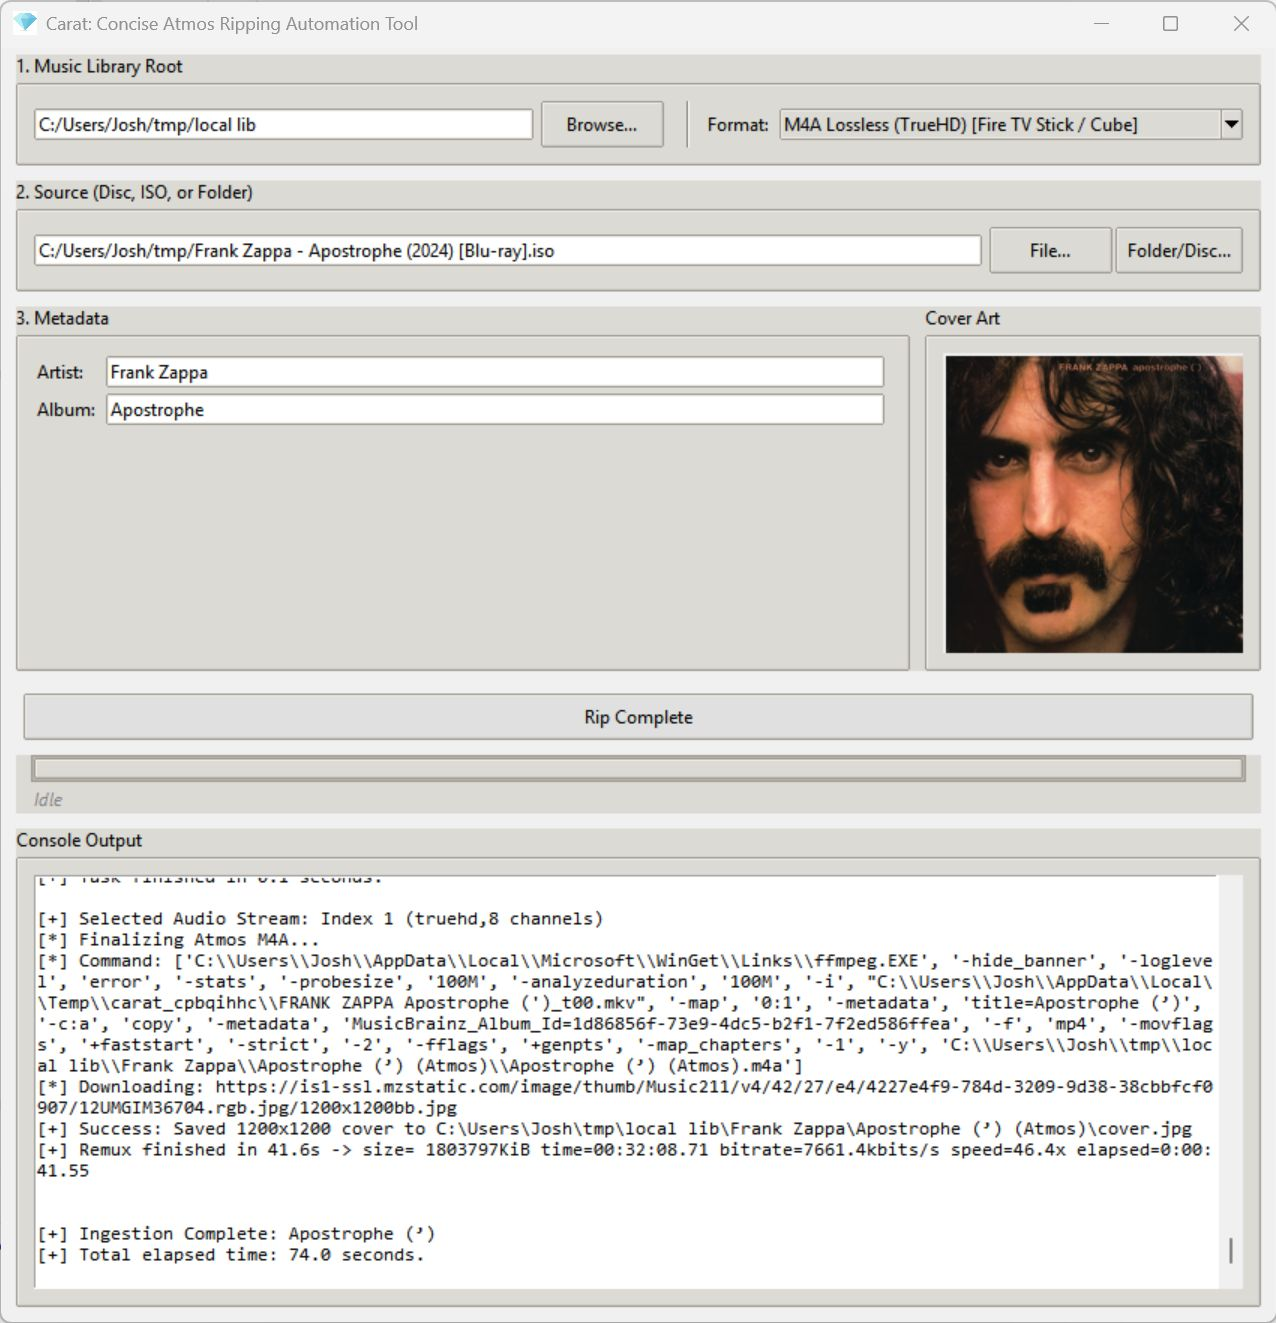
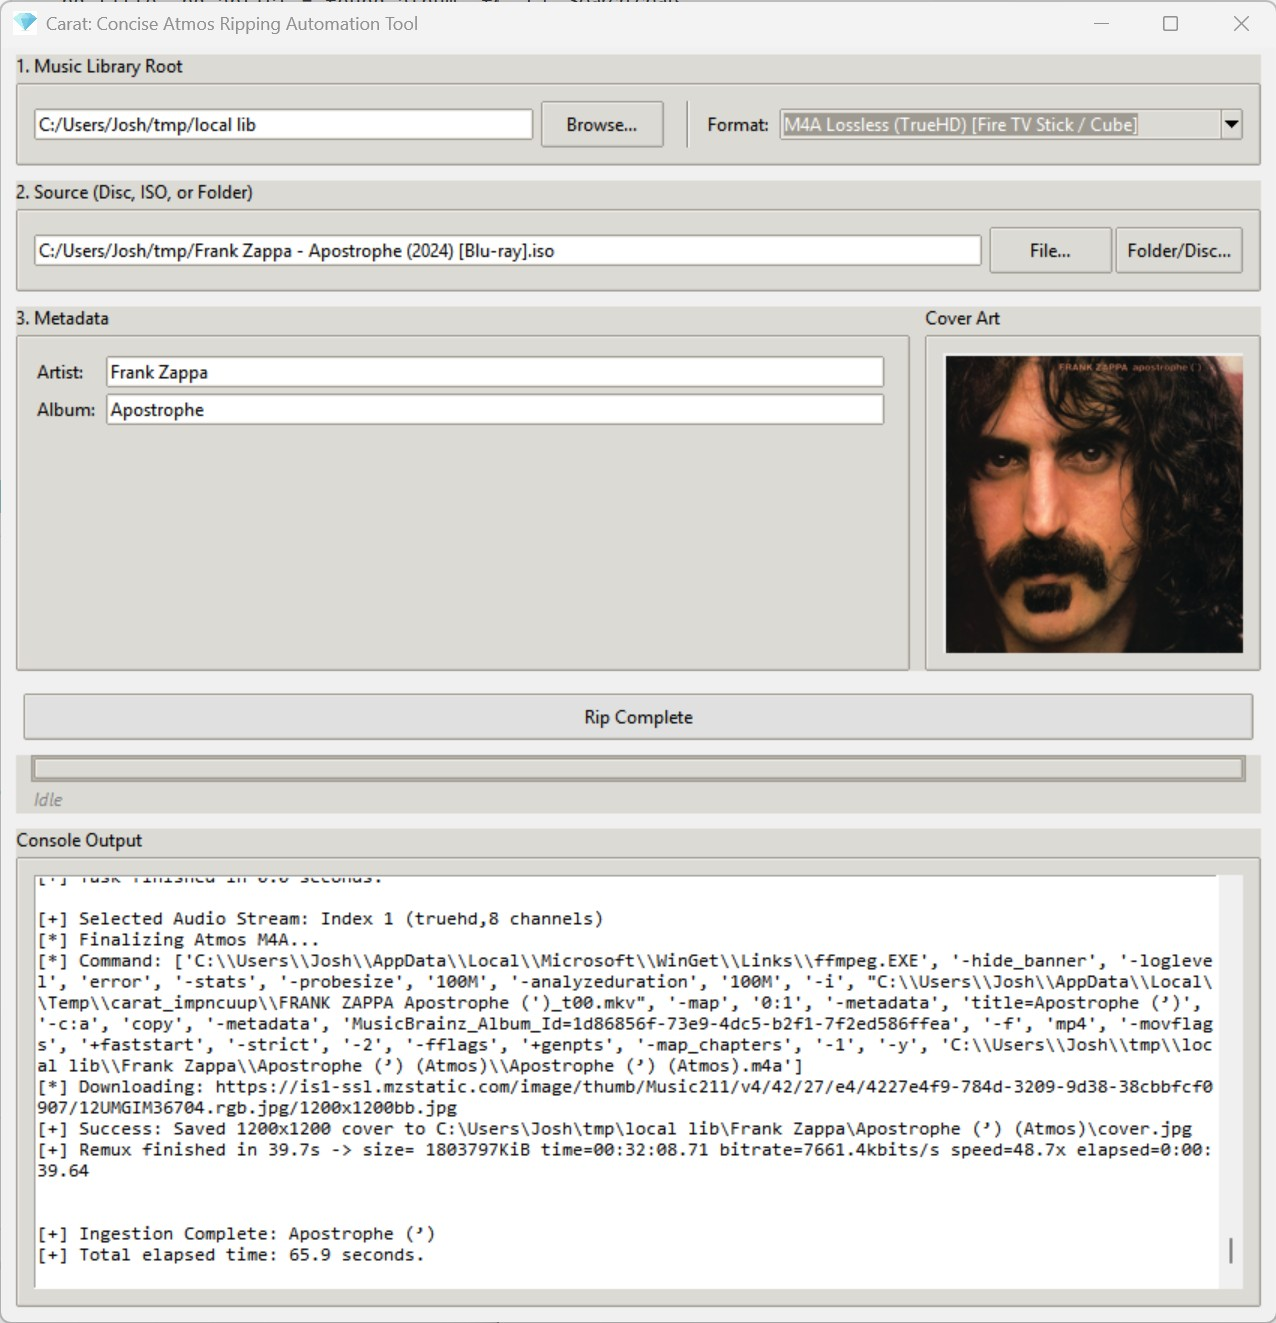
Add retry logic for MusicBrainz API calls to get_cover_art - Moved retry decorator to get_cover_art to keep dependencies simple - Removed some detritus from README.md - Replaced screenshot with a (slightly) better one

diff --git a/src/get_cover_art.py b/src/get_cover_art.py
@@ -15,6 +15,7 @@ __version__ = "1.0B3"
 
 import re
 import sys
+import time
 from io import BytesIO
 from pathlib import Path
 
@@ -77,15 +78,15 @@ def get_mb_digital_art_url(artist: str, album: str, mbid: str | None = None) -> 
                 return exact_url
 
             # 2. If the exact release has no art, grab its parent Release Group ID to check siblings
-            release_info = mb.get_release_by_id(mbid, includes=["release-groups"])
+            release_info = _get_release_by_id(mbid, includes=["release-groups"])
             rg_id = release_info['release']['release-group']['id']
         else: # 3 No Release ID given, get a release group ID from the artist and album names
-            release_groups = mb.search_release_groups(artist=artist, releasegroup=album)
+            release_groups = _search_release_groups(artist=artist, releasegroup=album)
             if release_groups['release-group-count'] == 0: return None
             rg_id = release_groups['release-group-list'][0]['id']
 
         # Fallback: Search all official releases in the release group
-        releases = mb.get_release_group_by_id(rg_id, includes=["releases"])['release-group']['release-list']
+        releases = _get_release_group_by_id(rg_id, includes=["releases"])['release-group']['release-list']
 
         # Prioritize 'Digital' releases (which have digital-native cover art) over other official releases
         digital = [r for r in releases if r.get('status') == 'Official' and r.get('packaging') is None]
@@ -110,7 +111,7 @@ def get_mb_art_url_from_releases(releases)-> str | None:
         # IMPORTANT: Perform a direct lookup for the release to get fresh CAA status
         # The release data inside a release-group object is often incomplete.
         try:
-            full_release = mb.get_release_by_id(mb_id)
+            full_release = _get_release_by_id(mb_id)
             status = full_release['release'].get('cover-art-archive', {})
 
             if str(status.get('artwork')).lower() == 'true':
@@ -128,6 +129,39 @@ def get_mb_art_url_from_releases(releases)-> str | None:
             logger.emit(f"  [!] Error checking release {mb_id}: {e}")
             continue
     return None
+
+def retry_mb_api(retries: int = 3, delay: float = 2.0):
+    """Decorator to retry MusicBrainz API calls on transient web errors."""
+    def decorator(func):
+        """Internal decorator to retry MusicBrainz API calls."""
+        def wrapper(*args, **kwargs):
+            """internal decorator that does the actual work"""
+            attempt = 0
+            while True:
+                try:
+                    return func(*args, **kwargs)
+                except mb.WebServiceError:
+                    attempt += 1
+                    if attempt >= retries:
+                        raise
+                    time.sleep(delay)
+        return wrapper
+    return decorator
+
+@retry_mb_api()
+def _get_release_by_id(rel_id: str, includes: list[str] | None = None) -> dict:
+    """Fetches a single release by ID with retry logic."""
+    return mb.get_release_by_id(rel_id, includes=includes or [])
+
+@retry_mb_api()
+def _search_release_groups(artist: str, releasegroup: str) -> dict:
+    """Searches for release groups with retry logic."""
+    return mb.search_release_groups(artist=artist, releasegroup=releasegroup)
+
+@retry_mb_api()
+def _get_release_group_by_id(rg_id: str, includes: list[str] | None = None) -> dict:
+    """Fetches a release group by ID with retry logic."""
+    return mb.get_release_group_by_id(rg_id, includes=includes or [])
 
 
 def normalize_for_fuzzy_comparison(s: str) -> str:

diff --git a/src/carat.py b/src/carat.py
@@ -45,7 +45,7 @@ import get_cover_art
 import logger
 import makemkv_updater
 # noinspection PyProtectedMember
-from get_cover_art import normalize_for_fuzzy_comparison
+from get_cover_art import normalize_for_fuzzy_comparison, retry_mb_api
 
 
 # --- (1) Metadata & Utils ---
@@ -113,23 +113,6 @@ def _ensure_writable(path: Path) -> None:
     except OSError:
         raise PermissionError(f"Library root is not writable: {path}")
 
-def _retry_mb_api(retries: int = 3, delay: float = 2.0):
-    """Decorator to retry MusicBrainz API calls on transient web errors."""
-    def decorator(func):
-        """Internal decorator to retry MusicBrainz API calls."""
-        def wrapper(*args, **kwargs):
-            """internal decorator that does the actual work"""
-            attempt = 0
-            while True:
-                try:
-                    return func(*args, **kwargs)
-                except mb.WebServiceError:
-                    attempt += 1
-                    if attempt >= retries:
-                        raise
-                    time.sleep(delay)
-        return wrapper
-    return decorator
 
 # --- (2) The Plumbing - subprocess cleanup and output beautification ---
 
@@ -859,7 +842,7 @@ def find_release_group(album: str, artist: str) -> tuple[str, str, str] | None:
     return None
 
 
-@_retry_mb_api()
+@retry_mb_api()
 def _search_releases(query: str, limit: int) -> dict:
     """Executes a release search with retry logic."""
     return mb.search_releases(query=query, limit=limit)
@@ -915,7 +898,7 @@ def find_releases_and_dates_for_release_group(rg_id: str, rg_title: str) -> list
     logger.emit(f"    -> Identified unique track counts: {sorted(list(seen_counts))}")
     return [(r_id, date) for r_id, date in unique_releases.items()]
 
-@_retry_mb_api()
+@retry_mb_api()
 def _browse_releases(rg_id: str, limit: int, offset: int) -> dict:
     """Fetches a paginated list of releases with retry logic."""
     return mb.browse_releases(release_group=rg_id, includes=['media'], limit=limit, offset=offset)
@@ -952,7 +935,7 @@ def fetch_tracklists_for_releases(release_ids_and_dates: list[tuple[str, str]],
     logger.emit(f"    [+] Metadata fetch complete. Built {len(candidates)} total candidates.")
     return candidates
 
-@_retry_mb_api()
+@retry_mb_api()
 def _fetch_release_info(rel_id: str) -> dict:
     """Fetches a single release with retry logic."""
     return mb.get_release_by_id(rel_id, includes=['recordings'])

diff --git a/README.md b/README.md
@@ -57,7 +57,7 @@ Feel free to move the entire Carat-Beta directory anywhere you like, or to renam
 ## Advanced Usage (CLI & Programmatic)
 While Carat features a fully automated GUI, the core engine is completely decoupled. Power users can:
 * **Run Headless:** Execute Carat directly from the command line or import it programmatically into custom Python scripts for batch-processing.
-* **Get Cover Art:** The `get_cover_art` module can be used in isolation, to scrape top-tier artwork from MusicBrainz/CAA and Apple/iTunes to upgrade your existing digital library.
+* **Get Cover Art:** The `get_cover_art` module can be used in isolation to scrape top-tier artwork from MusicBrainz/CAA and Apple/iTunes to upgrade your existing digital library.
 
 ## Under the Hood
 Carat acts as an elegant conductor for the community's best open-source media tools. The entire program consists of fewer than 2,000 lines of Python (taking up just 1/3 the space of its 400x400 icon). The entire distribution, including the icon, would fit six times on a standard floppy disk. Carat is also aggressively hygienic: it goes to great lengths to clean up after itself. Even if it is forcefully closed mid-rip, it tracks its state to ensure that it never leaves orphaned background processes running, or abandons multi-gigabyte temporary files on your drive.
